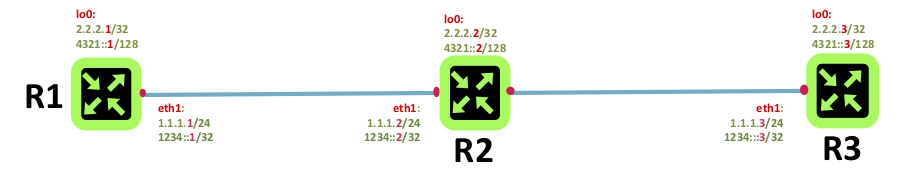
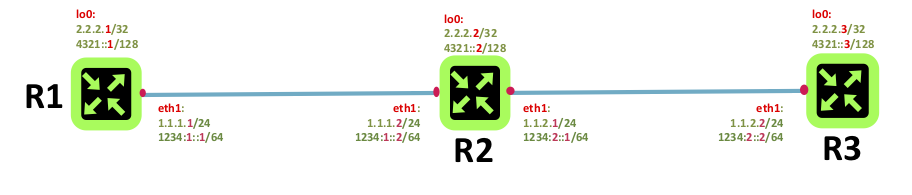
Added mpls ldp intop1/2 diagram and few diagram correction

diff --git a/docs/guides/control-plane/mpls/ldp/index.md b/docs/guides/control-plane/mpls/ldp/index.md
@@ -29,11 +29,7 @@
 ## **Interoperability test with Cisco IOS**
 ### [ldp lsp](/guides/tst/intop1-ldp01.tst/)
 ### [ethernet over mpls](/guides/tst/intop1-ldp02.tst/)
-### [ldp p2mp lsp](/guides/tst/intop1-ldp03.tst/)
-### [ldp mp2mp lsp](/guides/tst/intop1-ldp04.tst/)
 
 ## **Interoperability test with Cisco IOS-XR**
 ### [ldp lsp](/guides/tst/intop2-ldp01.tst/)
 ### [ethernet over mpls](/guides/tst/intop2-ldp02.tst/)
-### [ldp p2mp lsp](/guides/tst/intop2-ldp03.tst/)
-### [ldp mp2mp lsp](/guides/tst/intop2-ldp04.tst/)
